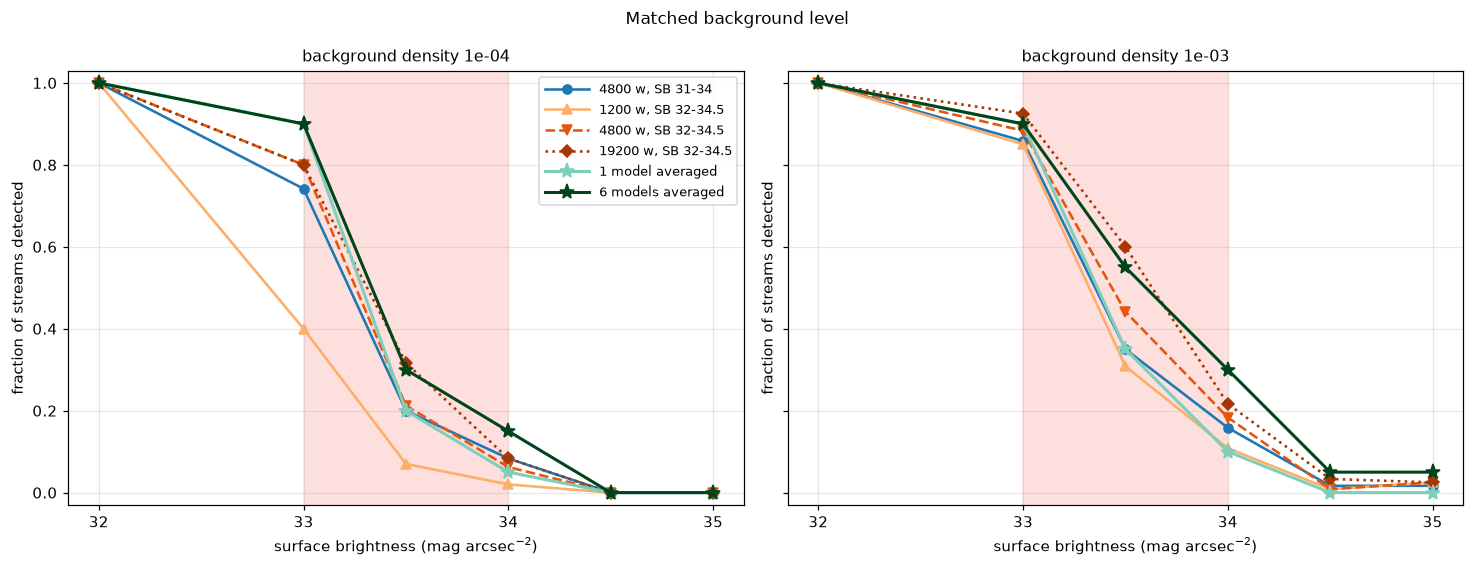
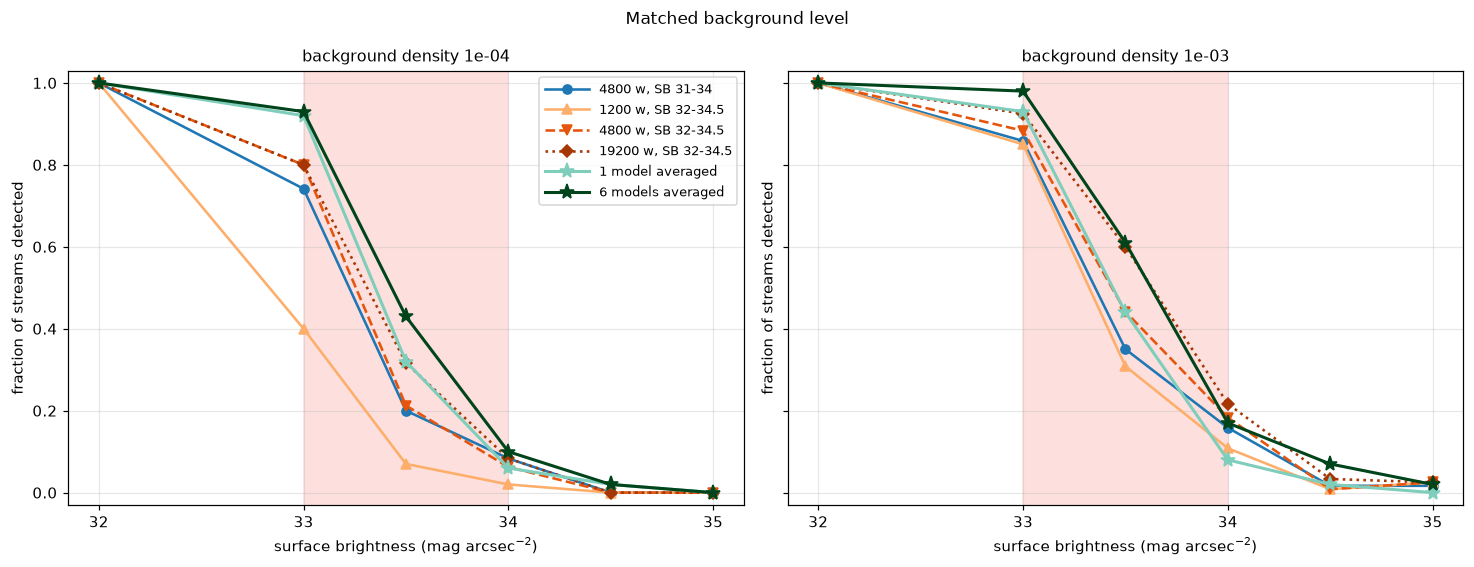
Score the ensembles on 100 streams: the averaging gain is real
An ensemble is one prediction, so it had 20 streams behind each point where a
configuration curve pools 120. At that size the matched-background comparison
was 7/20 against 11/20 and could not be called. Scoring on 100 streams (no
retraining) settles it: six averaged models take SB 33.5 from 44% to 61% at a
background density of 1e-3, Fisher p = 0.01.

It also corrects the recommendation. The four-model average looked equivalent
at threshold 0.5, but it gets there with a background a hundred times dirtier
than the single model's, and at a matched false-alarm rate it is flat. Six is
the number that gains.

run.py and ensemble.py now pin the shifted decoy box. They build their filters
by executing the notebook's config cell, which has switched to the fixed box,
while every saved model was trained with the shifted one — scoring would have
fed those models an input channel they never saw.

Changed region(s): [[0.5617, 0.1199, 0.9986, 0.8695], [0.0624, 0.1499, 0.4681, 0.8995]]

diff --git a/scripts/experiments/hyperparameters/ensemble.py b/scripts/experiments/hyperparameters/ensemble.py
@@ -35,7 +35,7 @@ SEEDS = [42, 43, 44, 45, 46, 47]
 # 4 is the equal-cost comparison against one training on 4 x 4800 windows.
 ENSEMBLE_SIZES = [1, 2, 3, 4, 6]
 EVAL_SB = [32.0, 33.0, 33.5, 34.0, 34.5, 35.0]
-N_REALIZATIONS = 20
+N_REALIZATIONS = 100  # one prediction per ensemble, so this is its whole sample
 N_NULL_BANDS = 200
 EVAL_SEED = 2026
 INDEPENDENT_BACKGROUND_SEED = 777
@@ -108,6 +108,21 @@ def main(configuration):
         "batch_size": settings["batch_size"],
     }
     g["stream_param_cfg"] = {**g["stream_param_cfg"], "richness": None}
+    # The models in data/experiments/hyperparameters/models/ were all trained
+    # with the shifted decoy box, before the notebook switched to the fixed one
+    # (PLAN.md 6.32). Their second input channel IS that shifted box, so the
+    # experiment keeps building it: re-scoring them against the fixed box would
+    # feed them a channel they never saw. A new experiment should train fresh
+    # models with the notebook's current filters instead of editing this.
+    g["filters_cfg"] = {
+        **g["filters_cfg"],
+        "decoy": {
+            "type": "shifted_box",
+            "reference": "good",
+            "color_shift": 0.5,
+            "color_width": 0.3,
+        },
+    }
     from importlib.util import module_from_spec, spec_from_file_location
 
     spec = spec_from_file_location("run", Path(__file__).parent / "run.py")

diff --git a/scripts/experiments/hyperparameters/run.py b/scripts/experiments/hyperparameters/run.py
@@ -175,6 +175,20 @@ def main(phase):
     g = {"__name__": "notebook"}
     for cell_id in SETUP_CELLS:
         run_cell(cell_id, g)
+    # This experiment's models all use the shifted decoy box, which is what the
+    # notebook had when they were trained (PLAN.md 6.32). Pinning it here keeps
+    # every model in data/experiments/hyperparameters/ comparable and lets them
+    # be re-scored later; a new experiment should train fresh models with the
+    # notebook's current filters rather than edit this.
+    g["filters_cfg"] = {
+        **g["filters_cfg"],
+        "decoy": {
+            "type": "shifted_box",
+            "reference": "good",
+            "color_shift": 0.5,
+            "color_width": 0.3,
+        },
+    }
     base_train_cfg = copy.deepcopy(g["train_cfg"])
     base_stream_cfg = copy.deepcopy(g["stream_param_cfg"])
     base_model_cfg = copy.deepcopy(g["model_cfg"])

diff --git a/docs/source/experiments/hyperparameters.md b/docs/source/experiments/hyperparameters.md
@@ -58,7 +58,9 @@ conclusions, which is why it is worth reading before acting on figures 1 to 3.
 
 - **Error bars are sampling uncertainty.** Each model is scored on 20 injected
   streams per surface brightness, so a configuration with 6 seeds contributes
-  120 streams. "k of n streams detected" is binomial — n is fixed and k ≤ n —
+  120 streams. An ensemble has no seeds to pool — it is one prediction — so it
+  is scored on 100 streams per surface brightness instead, which gives it a
+  comparable interval (±5 points against ±4.5). "k of n streams detected" is binomial — n is fixed and k ≤ n —
   so the bars are a **Wilson 68% interval**: the set of detection rates p for
   which the observed k is within one standard deviation, solved for p rather
   than centred on k/n. Unlike a √k bar it stays inside [0, 1] and keeps a
@@ -87,7 +89,7 @@ later without retraining.
 | training surface brightness | 31-34 (starting point); 32-34.5 | 6 each, except 2 for 9600 windows on 31-34 | more examples near the detection edge |
 | training length | 1200, 4800, 9600, 19200 windows | 6 | the batch-8 models look undertrained |
 | network depth and base width | depth 2, 3, 4; width 12, 24 | 6 at width 12, 2-4 at width 24 | a faint stream is only visible by adding up pixels along its track (~70 px long), while a depth-2 network sees ~30-40 px at once |
-| models averaged into one prediction | 1, 2, 3, 4, 6 | — | trainings differ a lot; does averaging them recover the faint end? |
+| models averaged into one prediction | 1, 2, 3, 4, 6 | one prediction each, 100 streams per point | trainings differ a lot; does averaging them recover the faint end? |
 
 ## Results
 
@@ -237,9 +239,11 @@ addresses.
 
 **Statement.** Averaging the per-pixel probabilities of N independently
 trained models, then thresholding once, detects more faint streams than any of
-the models alone, and removes the seed lottery: four or more averaged models
-take SB 33.5 from 20% to 55-60%. At equal training cost, averaging four short
-trainings matches a single long one almost exactly.
+the models alone, and removes the seed lottery: six averaged models take
+SB 33.5 from 27% to 52% and SB 34 from 2% to 14%. The gain survives the
+matched-background test of section 6 at a false-alarm rate of 1e-3, so it is a
+better model and not a looser threshold. At equal training cost, averaging four
+short trainings matches a single long one.
 
 ```{image} figures/hyperparameters/5_ensemble.png
 :alt: Detection fraction for ensembles of 1 to 6 averaged models, and the equal-cost comparison between four averaged 4800-window models and single 19200-window models
@@ -256,32 +260,43 @@ curves — a summary of several models, not a model you could deploy. The
 orange curve is the model average of four 4800-window trainings (4 × 4800 =
 19200 windows), the same object as the left panel's, with its sampling bars.*
 
-Averaging four or six models takes SB 33.5 from 20% to 60% and 55%, and SB 34
-from 0% to 20%, while the background density stays at 1.1e-3 and 4.8e-4 —
-below the 1.6e-3 of a typical single 4800-window model. Two and three models
-are not enough: the gain appears between three and four. The mechanism is the
-one figure 4 exposes: each training flags a different, partly random subset of
-the marginal pixels, so the false alarms average down while the pixels that
+At threshold 0.5 and SB 33.5, scored on 100 streams each:
+
+| Models averaged | detected | background density | detected at 1e-4 | at 1e-3 |
+|---|---|---|---|---|
+| 1 | 27% | 7.5e-6 | 32% | 44% |
+| 2 | 22% | 7.3e-6 | 32% | 53% |
+| 3 | 32% | 4.8e-5 | 31% | 44% |
+| 4 | 56% | 7.1e-4 | 31% | 43% |
+| 6 | 52% | 3.3e-4 | 43% | 61% |
+
+Two and three models change nothing; the gain appears at four. The mechanism is
+the one figure 4 exposes: each training flags a different, partly random subset
+of the marginal pixels, so the false alarms average down while the pixels that
 many models agree on survive. This costs N trainings and N forward passes per
 prediction — expensive, but the forward passes are cheap compared with
 training, and they parallelize.
 
-Each ensemble curve is one prediction scored on 20 streams per surface
-brightness, so its sampling bars are wide (±0.11 at 50%) and the non-monotonic
-wiggles between sizes 2, 3 and 4 are noise. The step from ≤3 to ≥4 models,
-0.20 to 0.55-0.60, is larger than that; section 6 shows the same step is
-weaker once the false-alarm rate is held fixed, so the honest summary is that
-averaging clearly helps at a fixed threshold and probably, but not yet
-measurably, at a fixed false-alarm rate.
+The last two columns are why the recommendation is six and not four. The
+4-model average's jump at threshold 0.5 comes with a background 100 times
+dirtier than the single model's, and at a matched false-alarm rate it is flat
+(31% and 43%, against the single model's 32% and 44%): that jump is the
+operating point moving. Only the 6-model average gains at a matched rate (43%
+and 61%, Fisher p = 0.07 and 0.01 against the single model).
+
+One caveat on reading the sizes as a trend: they are nested — size N averages
+the first N of the same six trainings — so "how many models" and "which models"
+are confounded. What the data supports is that averaging around six trainings
+helps, not that the curve is monotone in N.
 
 The equal-cost comparison matters for how to spend a fixed budget. Four
 averaged trainings of 4800 windows and one training of 19200 windows use the
 same number of simulated windows. The single long training does well on
 average — and the two curves agree within their bars at every surface
-brightness — but its individual curves scatter (thin lines), and you get one
-draw from that scatter. The average of four gives one prediction, whose
-remaining spread is much smaller. At this budget the choice is therefore about
-reproducibility rather than sensitivity.
+brightness (56% against 63% at SB 33.5) — but its individual curves scatter
+(thin lines), and you get one draw from that scatter. The average of four gives
+one prediction, whose remaining spread is much smaller. At this budget the
+choice is therefore about reproducibility rather than sensitivity.
 
 ### 6. Which of those effects are real, and which are the threshold moving
 
@@ -316,18 +331,18 @@ the false-alarm rate is the resource being spent. At a matched rate, at SB 33.5:
 | 4800 w, SB 32-34.5 | 21% | 44% |
 | 1200 w, SB 32-34.5 | 7% | 31% |
 | 19200 w, SB 32-34.5 | 32% | 60% |
-| 1 model (4800 w) | 20% | 35% |
-| 6 models averaged | 30% | 55% |
+| 1 model (4800 w) | 32% | 44% |
+| 6 models averaged | 43% | 61% |
 
 The two training ranges are within a few points of each other — nothing like
 the 48% against 20% that figure 1 shows at threshold 0.5. Training on fainter
 streams mainly makes the model less conservative, which a threshold can do
-too. What survives the matched comparison is training length: 31% → 60% at 1e-3
-and 7% → 32% at 1e-4, monotone in both. Averaging points the same way (35% →
-55% at 1e-3, 20% → 30% at 1e-4) but each ensemble is one prediction scored on
-20 streams, so those are 7/20 against 11/20 and 4/20 against 6/20 — the right
-direction, not yet a measurement. Confirming it needs more evaluation streams
-per ensemble, not more models.
+too. What survives the matched comparison is training length (31% → 60% at 1e-3 and
+7% → 32% at 1e-4, monotone in both) and averaging six trainings (44% → 61% at
+1e-3, Fisher p = 0.01; 32% → 43% at 1e-4, p = 0.07, so clear at the looser
+budget and suggestive at the stricter one). Those ensemble numbers are scored
+on 100 streams each; at the 20 streams used initially the same comparison was
+7/20 against 11/20 and could not be called.
 
 This does not make the training range irrelevant. A model trained on 31-34
 cannot be pushed to the faint end by lowering its threshold indefinitely — at
@@ -352,10 +367,10 @@ For the streams this project targets, on this training population:
   a matched false-alarm rate, and 4800 is a reasonable compromise at a quarter
   of the cost.
 - **Depth 2, width 12.** Nothing larger helped, so the cheapest network wins.
-- **Average 4 to 6 trainings** into one prediction. This is what turns a model
-  that may or may not see SB 34 streams into one that reliably sees some of
-  them, and it is the only lever that both raises detection and lowers the
-  false-alarm rate.
+- **Average about six trainings** into one prediction. This is what turns a
+  model that may or may not see SB 34 streams into one that reliably sees some
+  of them. Four is not enough at a matched false-alarm rate, even though it
+  looks equivalent at threshold 0.5.
 
 ## Caveats
 
